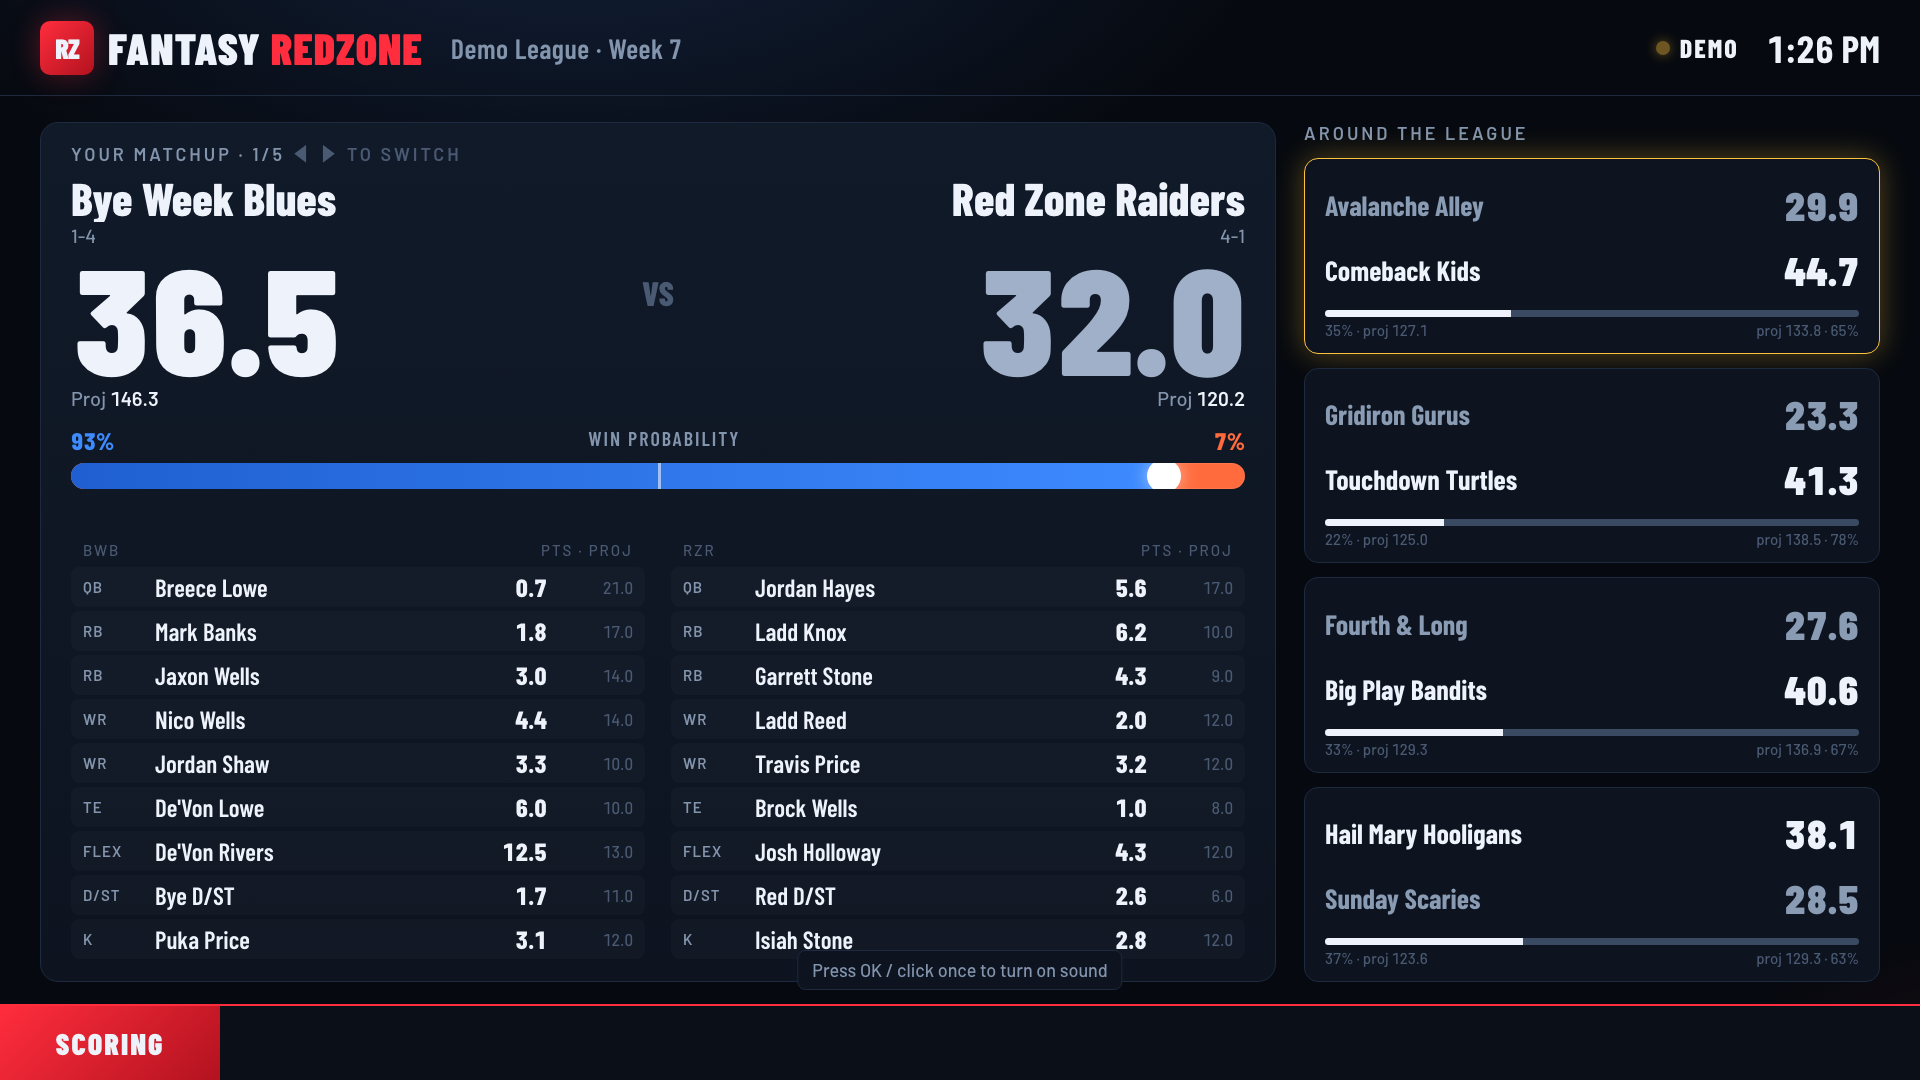
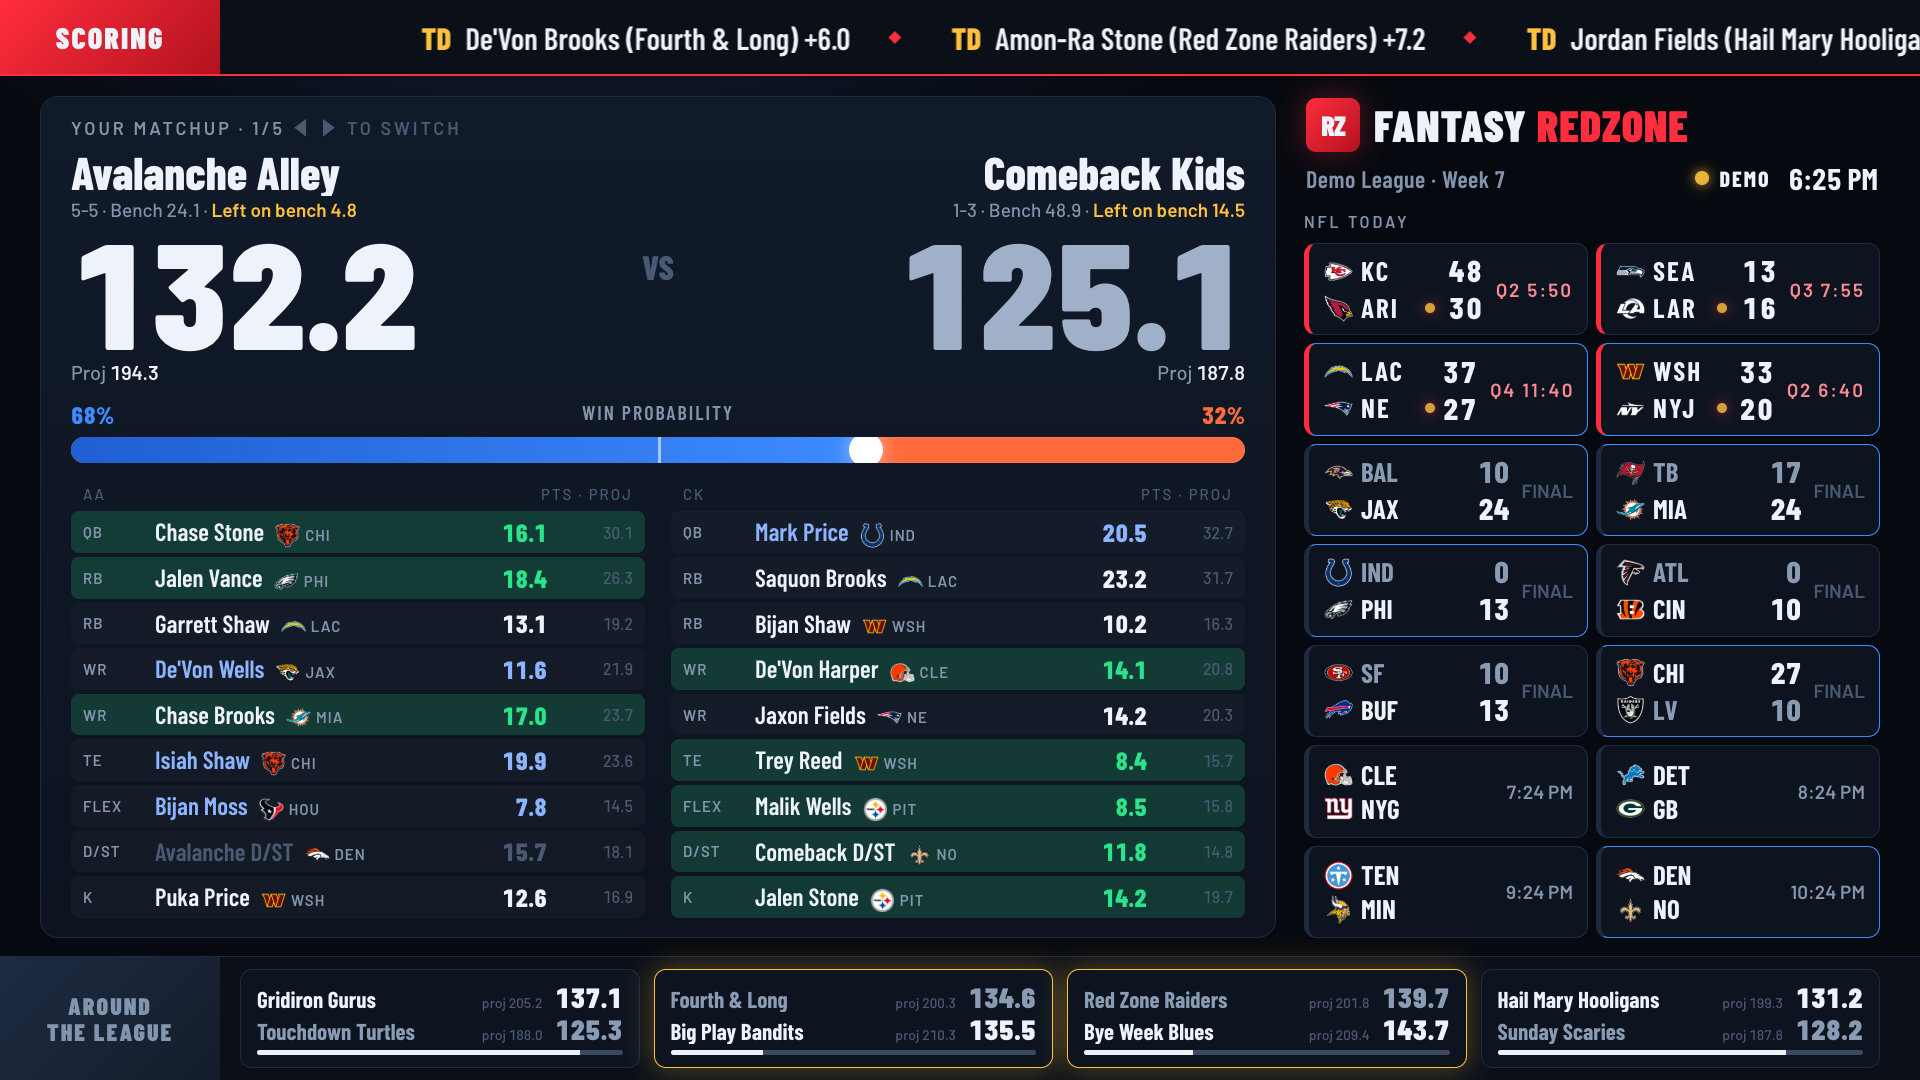
README: new screenshot and a step-by-step setup, cookies included
The screenshot is demo mode in the current layout (made-up teams, so no real
league members' names in a public repo). Setup is now one walkthrough: clone,
league ID from the URL, the two ESPN cookies click by click in Chrome (plus
Firefox and Safari), pick your team, put it on the TV. The feature list matches
what the board does now.

diff --git a/README.md b/README.md
@@ -1,32 +1,71 @@
 # Fantasy RedZone
 
-A live ESPN fantasy football board for the TV. It shows your matchup with
-big scores and a win-probability tug-of-war, the rest of the league on the
-side, and a scoring crawl along the bottom. When one of your players scores,
-the screen flashes, an air horn plays, and the play is announced.
-
-Plain Python 3, nothing to install.
+A live ESPN fantasy football board for the TV, like NFL RedZone for your fantasy league.
 
 ![The board in demo mode](docs/screenshot.png)
+
+- **Your matchup**, big: live scores, projections that update every 30 seconds as games
+  play out, a win-probability tug-of-war, and both lineups side by side in the same
+  position order. Each player shows their NFL team and logo. Rows are grey before kickoff,
+  white during their game, and blue once it's over, and they flash green when a player scores.
+- **Bench watch**: each team's bench points, and how many more points the best possible
+  lineup would have scored (counting only finished games).
+- **Every NFL game** on the right: scores, quarter and clock, kickoff times, who has the
+  ball, and a red box when a team is in the red zone. Games with your starters are outlined.
+- **The rest of your league** along the bottom, and a **scoring crawl** across the top with
+  touchdowns, big plays, and trash talk.
+- **Touchdown takeovers**: when one of your players scores, the screen flashes, an air horn
+  plays, and the play is announced. When it's against you, a sad horn plays instead.
+
+Plain Python 3, nothing to install. Arrow keys (or the TV remote's ◀ ▶) switch the featured matchup.
 
 ## 1. Try it (no ESPN needed)
 
     python3 server.py --demo
 
-Open http://localhost:8787. The demo fakes a league and scores roughly every few seconds.
+Open http://localhost:8787. The demo fakes a league and NFL slate and scores every few seconds.
 
-## 2. Hook up your league
+## 2. Set it up for your league
 
+You need Python 3 (already on macOS and Linux; on Windows, install it from python.org and type
+`python` wherever this says `python3`) and about 5 minutes.
+
+**a. Get the code and make your config**
+
+    git clone https://github.com/killercatfish/fantasy-redzone.git
+    cd fantasy-redzone
     cp config.example.json config.json
 
-Set `league_id` to the number after `leagueId=` in your league's URL, and `season` to the
-current year. Then fill in `espn_s2` and `swid`. While logged in at fantasy.espn.com in Chrome:
-DevTools → Application → Cookies → https://fantasy.espn.com. Then:
+**b. Find your league ID.** Open your league on fantasy.espn.com. The URL looks like
+`https://fantasy.espn.com/football/league?leagueId=12345678`. Put that number in
+`config.json` as `"league_id"`, and set `"season"` to this season's year.
 
-    python3 server.py --teams     # lists team ids; put yours in "my_team_id"
+**c. Copy your two ESPN cookies** (only for private leagues; a public league can skip this).
+ESPN doesn't give private leagues an API key, so the board signs in with the same two
+cookies your browser uses:
+
+1. In Chrome, go to fantasy.espn.com and make sure you're logged in.
+2. Open DevTools: **⌥⌘I** on a Mac, **Ctrl+Shift+I** on Windows (or right-click → Inspect).
+3. Click the **Application** tab (if you don't see it, click **»** at the top of DevTools).
+4. In the left sidebar, open **Cookies** → **https://fantasy.espn.com**.
+5. Type `espn_s2` in the filter box. Double-click its **Value**, copy it, and paste it into
+   `config.json` as `"espn_s2"`. It's long, about 300 characters.
+6. Do the same for `SWID`, and paste it as `"swid"`, including the `{ }` braces.
+
+Firefox: the same cookies are under DevTools → **Storage** → **Cookies**. Safari: turn on
+Settings → Advanced → "Show features for web developers" first, then use
+Develop → Show Web Inspector → **Storage**.
+
+The cookies last until you log out of ESPN in that browser. If the board ever says "ESPN said 401", copy them again.
+`config.json` is your ESPN login, so never share it or commit it (it's already in `.gitignore`).
+
+**d. Pick your team and start it**
+
+    python3 server.py --teams     # lists every team with its id
+    # put your id in config.json as "my_team_id"
     python3 server.py
 
-`config.json` holds your ESPN login, so keep it on this machine.
+Open http://localhost:8787 on the same computer to check it, then put it on the TV.
 
 ## 3. Get it on the TV
 
@@ -42,14 +81,17 @@ at `http://<that-machine's-IP>:8787`.
 
 On a TV browser without that flag, press OK or click once to turn on sound.
 
+To find the computer's IP: on a Mac, System Settings → Wi-Fi → Details; on Linux, `hostname -I`.
+macOS may ask once whether to allow incoming connections for Python; say yes. The board runs
+as long as `python3 server.py` is running. To keep it running on a Raspberry Pi as a service
+that starts on boot, see `deploy/PI.md`.
+
 ## Optional: a real voice for the calls
 
 Without this, the browser's built-in voice reads the scoring calls. Set `kira_voice_url` to a
 text-to-speech endpoint that takes `POST {"text": "..."}` and returns a wav. The server forwards each
 line there, and if the endpoint fails, the browser voice reads the line instead. For example, point it at a
 [Kokoro](https://github.com/thewh1teagle/kokoro-onnx) server on another machine.
-
-To run the board on a Raspberry Pi as a service, see `deploy/PI.md`.
 
 ## Optional: Home Assistant lights
 
